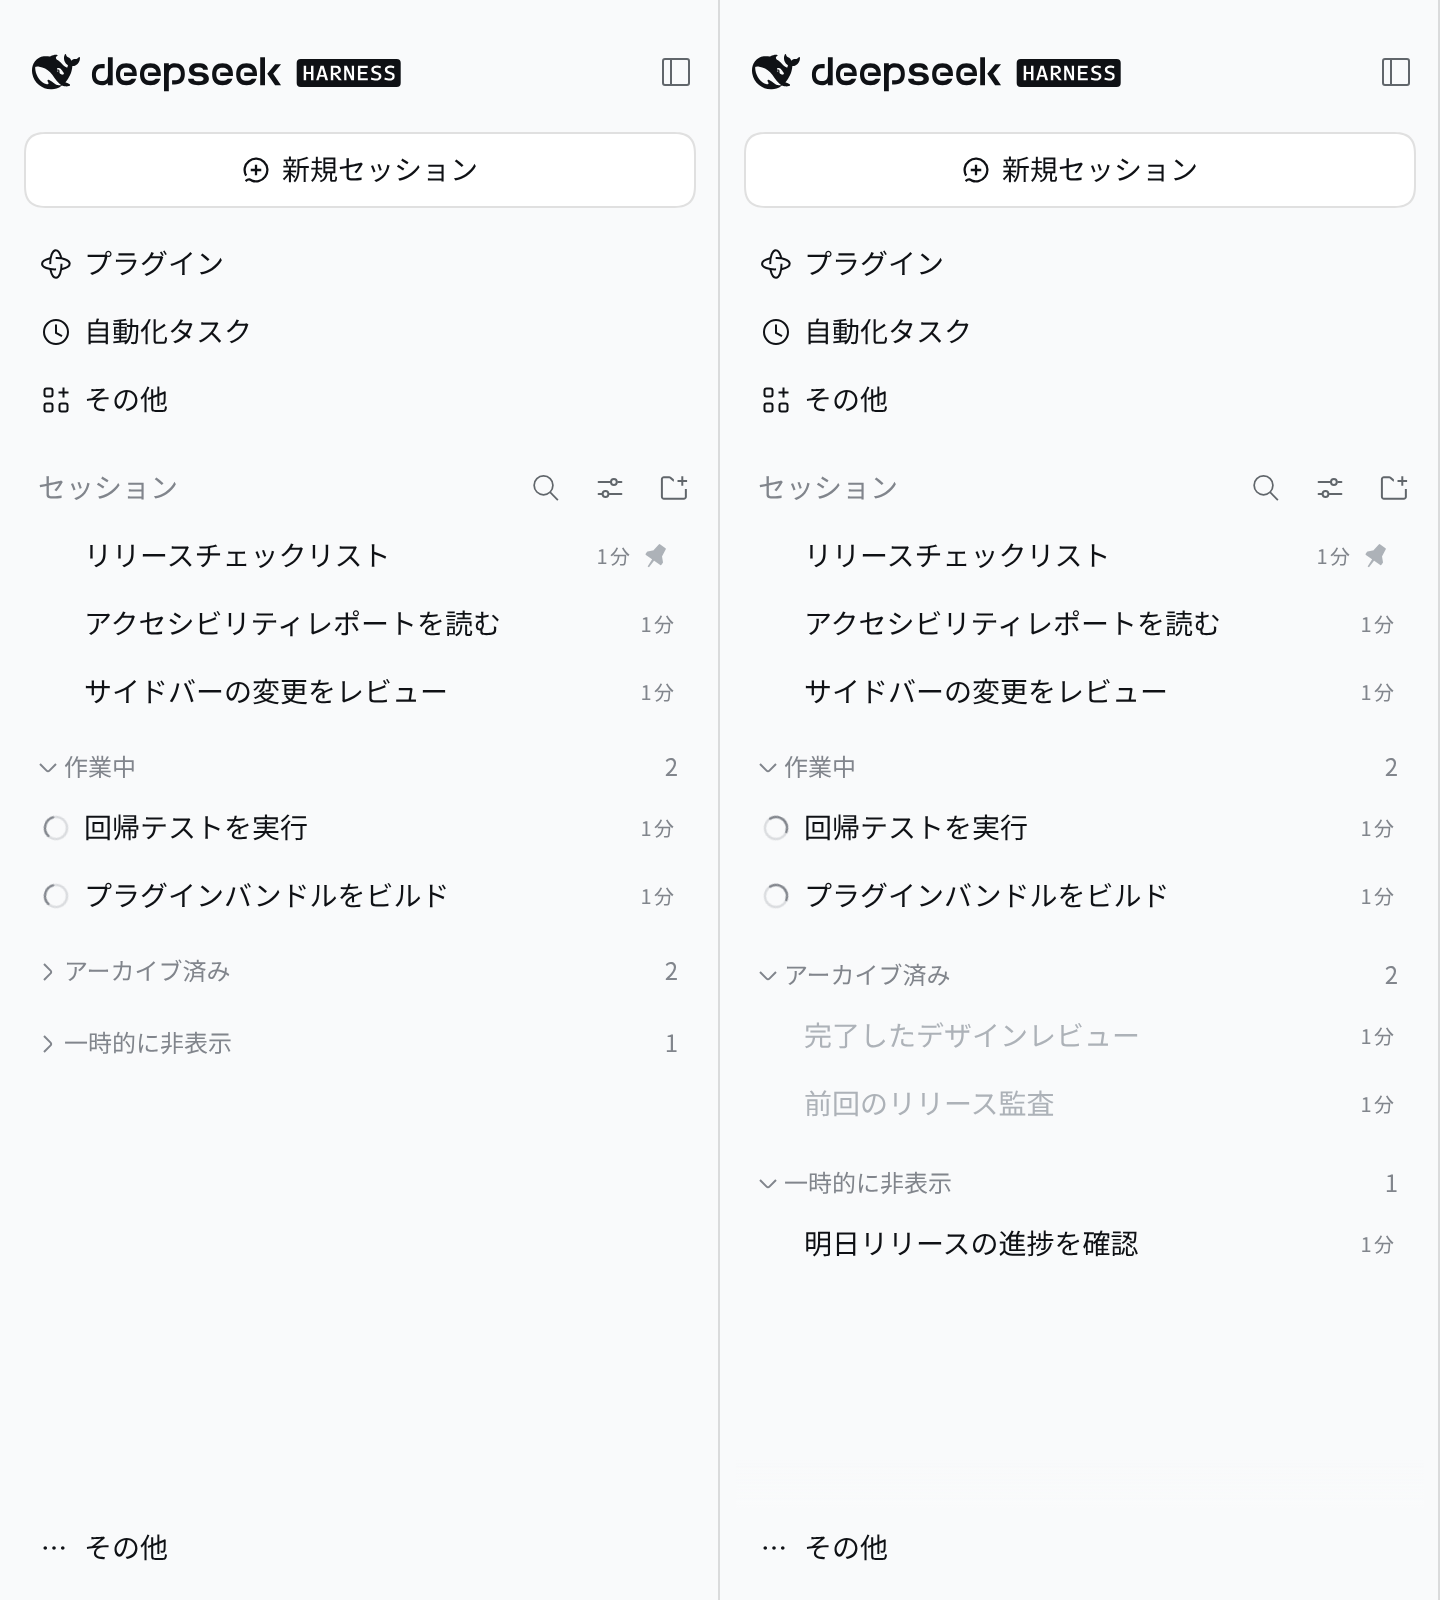
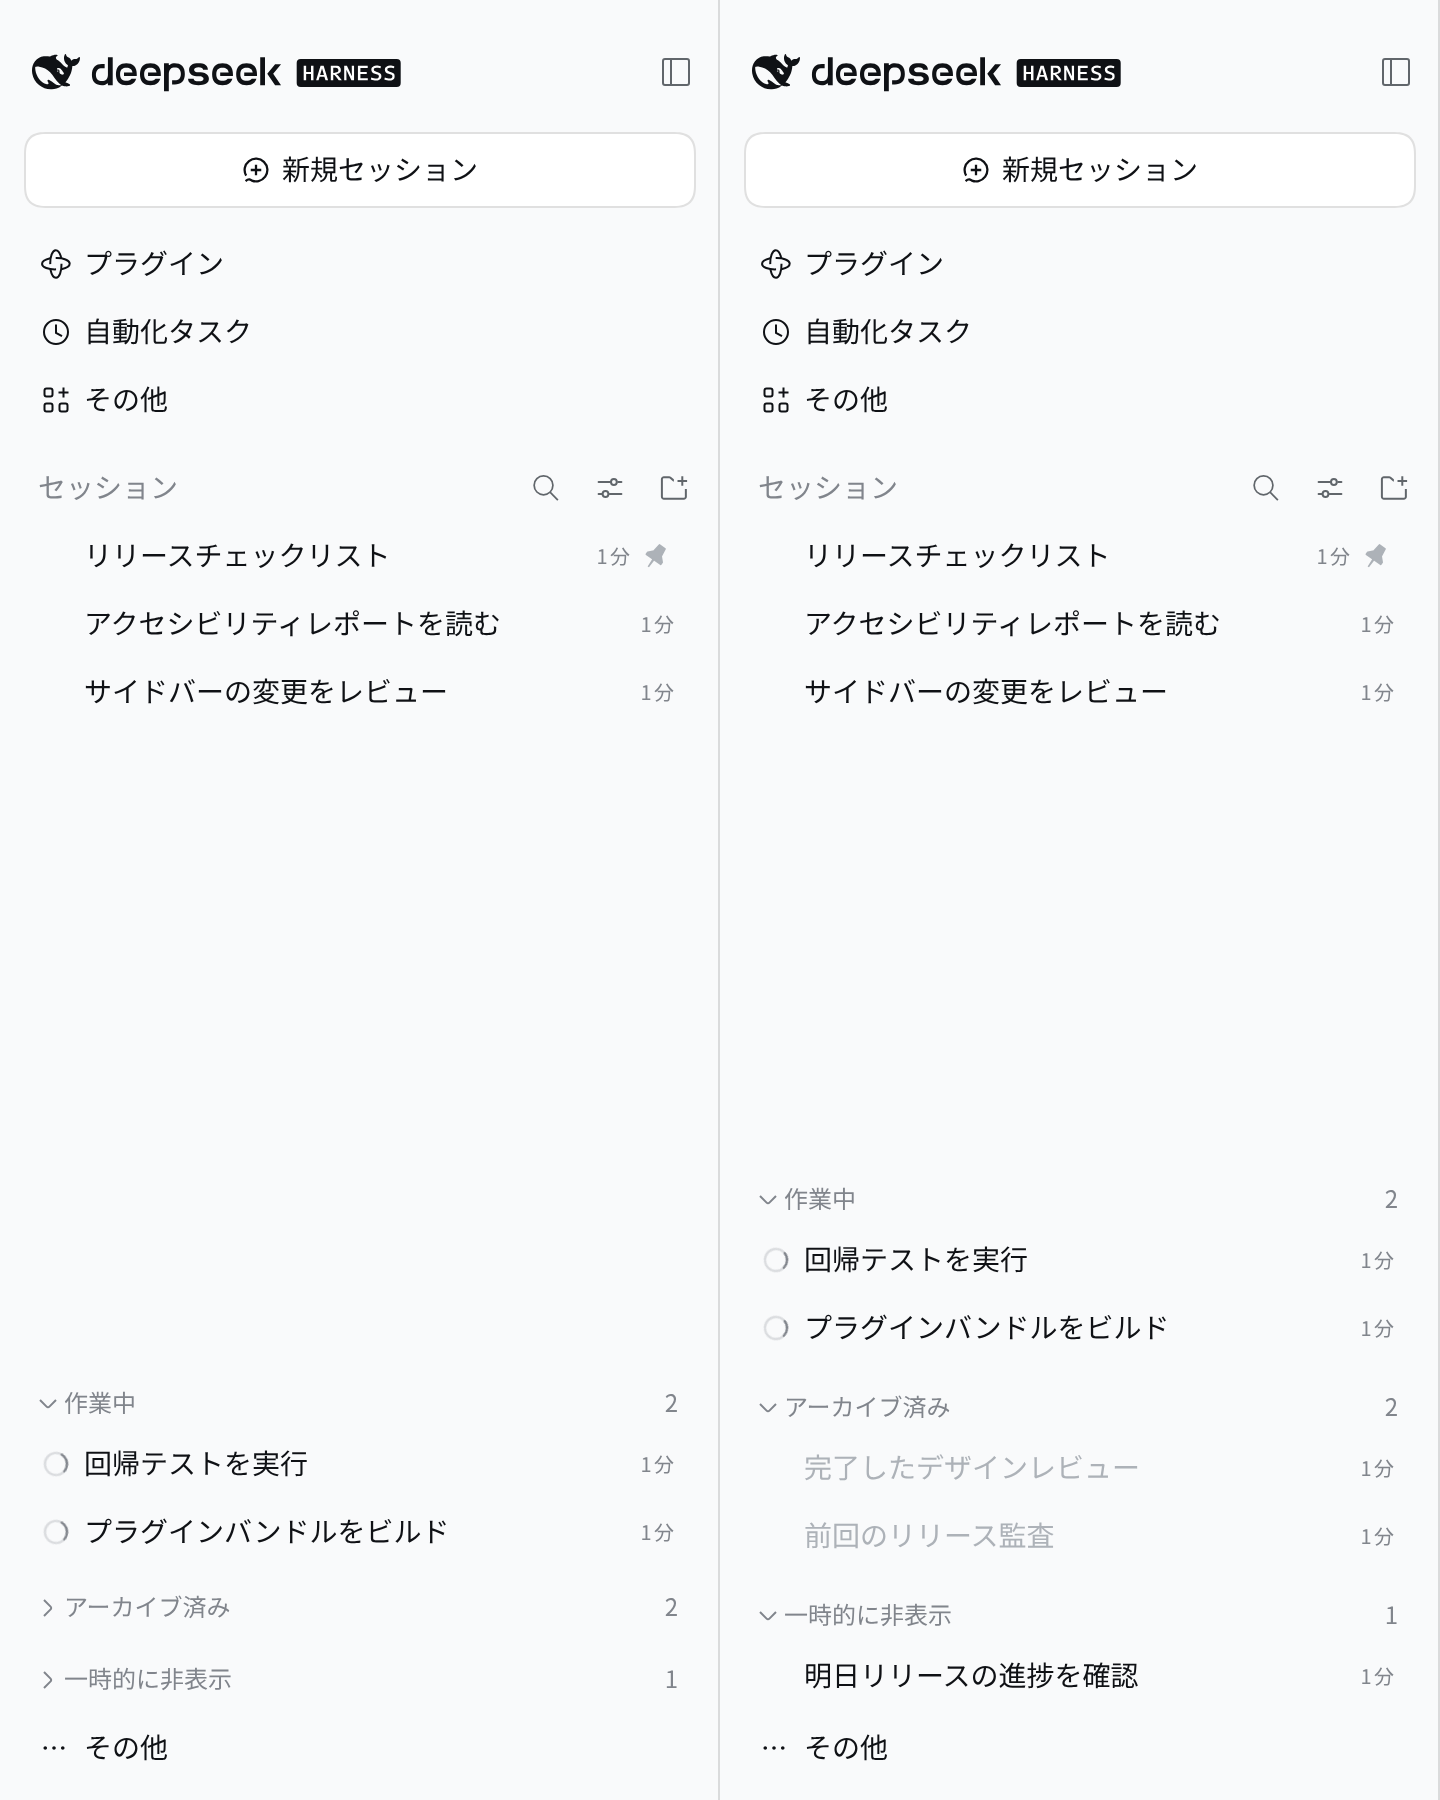
fix(sidebar-inbox): 하단 고정을 복구하고 미리보기를 갱신한다
기본 사이드바의 콘텐츠 높이 기준 grid 행이 하단 목록을 위로 밀어 올리므로,
에이전트 활동 정렬에서만 남은 높이를 채우고 목록 높이의 절반으로 하단 영역을 제한한다.
독립 스크롤 영역을 덮는 기본 흐림 효과를 해제하고 모든 언어의 미리보기를 다시 촬영한다.

Amp-Thread-ID: https://ampcode.com/threads/T-01a1e290-8a1c-71fe-abaf-7f7ffad8fb00

diff --git a/packages/ui-sidebar-inbox/src/headings.ts b/packages/ui-sidebar-inbox/src/headings.ts
@@ -41,6 +41,15 @@ export function installHeadings(
   const open: Record<FooterSection, boolean> = { Working: true, Archived: false, Snoozed: false }
   const style = document.createElement('style')
   style.textContent = `
+    /* The native wide sidebar sizes its final grid row to content. While we
+       split the list into panes, let that row and its list fill the viewport. */
+    [data-sidebar-scrollport]:has([data-dsh-inbox-tree]) {
+      grid-template-rows: 8px max-content 2px minmax(0, 1fr);
+    }
+    [data-sidebar-scrollport] :has(> [data-sidebar-list-area] [data-dsh-inbox-tree]) { flex: 1; }
+    [data-sidebar-scrollport] [data-sidebar-list-area]:has([data-dsh-inbox-tree]) { display: flex; }
+    /* The native viewport fade must not cover the independently scrolling footer. */
+    [data-sidebar-scrollport]:has([data-dsh-inbox-tree]) + span[aria-hidden="true"] { display: none; }
     [data-dsh-inbox-tree] {
       display: flex; flex-direction: column; padding-bottom: 0;
       overflow: hidden; scrollbar-gutter: auto; interpolate-size: allow-keywords;
@@ -167,7 +176,7 @@ export function installHeadings(
   }
   const sizeFooters = () => {
     for (const [tree, { footer }] of panes) {
-      footer.style.maxBlockSize = `${footerLimit(tree, window.innerHeight)}px`
+      footer.style.maxBlockSize = `${Math.min(tree.clientHeight / 2, footerLimit(tree, window.innerHeight))}px`
     }
   }
   const animateArchive = (tree: HTMLElement, from: number) => {
@@ -185,7 +194,7 @@ export function installHeadings(
         (Number.parseFloat(margins.marginTop) || 0) +
         (Number.parseFloat(margins.marginBottom) || 0)
     }
-    const target = Math.min(naturalHeight, footerLimit(tree, window.innerHeight))
+    const target = Math.min(naturalHeight, tree.clientHeight / 2, footerLimit(tree, window.innerHeight))
     if (Math.abs(target - from) < 0.5) return
     const duration = open.Archived ? 480 : 260
     footer.style.transition = 'none'
